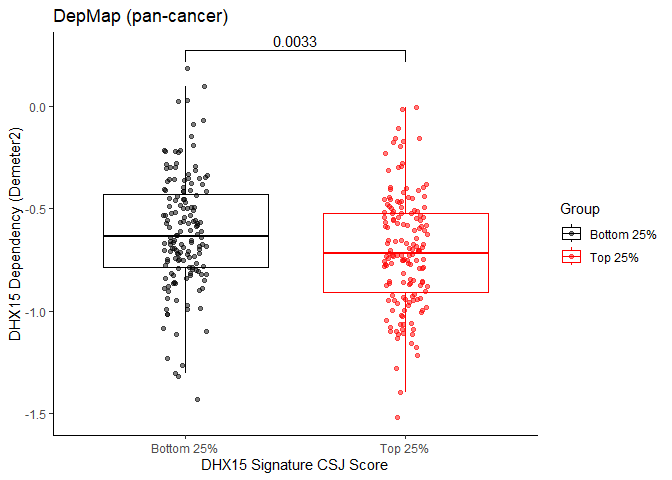
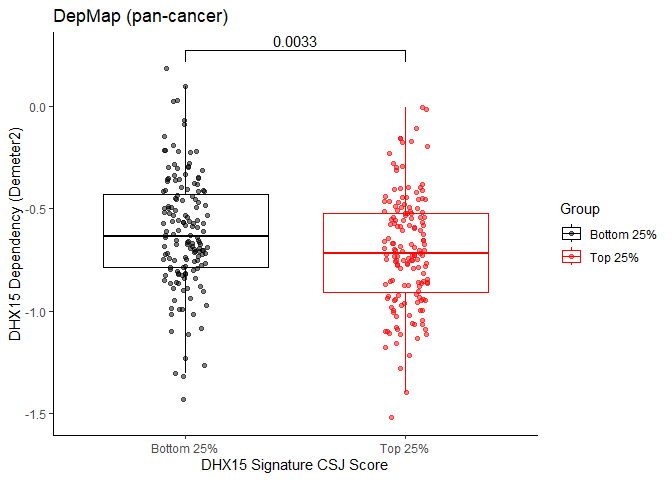
change based on Miko's comments

diff --git a/code/figure6_2.md b/code/figure6_2.md
@@ -14,6 +14,8 @@ library(viridis)
 
     ## Loading required package: viridisLite
 
+### Figure 6A
+
 ``` r
 # Define functions ####
 get_counts <- function(files, junxs) {
@@ -100,29 +102,19 @@ p <- pheatmap(tmp,
 
 ![](figure6_2_files/figure-markdown_github/Figure6_A-1.png)
 
-``` r
-ggsave(p, filename = "../LM2_SUM159_signature_heatmap.pdf",
-height = 6, width = 4)
-```
+### Figure 6C
 
 ``` r
-score <- read.delim(
-  paste0("../data/dtag_experiments/",
-         "top_122_differential_usage_lm2_sum159_multi_dosage.tsv")
-  )
-samples <- gsub("_classified_junctions.tsv", "", fixed = TRUE, rownames(score))
-meta <- fread("../data/dtag_experiments/lm2_sum159_multi_dosage_meta.tsv")
-aframe <- data.frame(score, meta)
-aframe$condition <- paste(aframe$Clone, aframe$Dosage.value, aframe$Time.value)
-aframe$condition <- factor(
-  aframe$condition, levels =
-    unique(aframe$condition[order(aframe$Dosage.value, aframe$Time.value)]))
-tmp <- aframe[aframe$Clone == "D12", ]
-afit <- summary(lm(tmp$score ~ as.numeric(as.factor(tmp$Dosage.value))))
+score <- fread(paste0("../data/dtag_experiments/",
+         "CSJ_signature_score_sum159_dosage_score.tsv"))
+meta <- fread(
+  "../data/dtag_experiments/CSJ_signature_score_sum159_dosage_meta.tsv")
+aframe <- data.frame(meta, score)
+afit <- summary(lm(aframe$score ~ as.numeric(as.factor(aframe$Dosage.value))))
 pval <- signif(coefficients(afit)[2, 4], 2)
 
 # Figure 6 C
-ggplot(aframe[aframe$Clone == "D12", ],
+ggplot(aframe,
        aes(factor(Dosage.value), score)) +
   labs(title = "SUM159 FKBP-DHX15",
        subtitle = paste("SUM159 D12 9hr - ordinal model P:", pval),
@@ -132,12 +124,8 @@ ggplot(aframe[aframe$Clone == "D12", ],
   theme_classic()
 ```
 
-![](figure6_2_files/figure-markdown_github/figure6_C-1.png)
-
-``` r
-ggsave(filename = "../SUM159_dosage_effect_UJ_score.pdf",
-       height = 5, width = 6)
-```
+![](figure6_2_files/figure-markdown_github/figure6_C-1.png) \### Figure
+6D
 
 ``` r
 # UJ score vs target specificity ####
@@ -174,11 +162,7 @@ ggplot(aframe,
 
 ![](figure6_2_files/figure-markdown_github/figure6_D-1.png)
 
-``` r
-ggsave(
-  filename = "../figure6_D_UJ_score_target_specificity.pdf",
-  height = 6, width = 6)
-```
+### Figure 6E
 
 ``` r
 meta <- fread("../data/r222g_mutant/CSJ_signature_score_r222g_mutant_meta.tsv")
@@ -203,12 +187,6 @@ ggplot(aframe,
     ## [1] FALSE
 
 ![](figure6_2_files/figure-markdown_github/figure6_E-1.png)
-
-``` r
-ggsave(filename = "../figure6_E_R222G_CJ_score.pdf",
-       height = 6,
-       width = 5)
-```
 
 ``` r
 score <- fread("../data/depmap/CSJ_signature_score_depmap.tsv")
@@ -252,6 +230,8 @@ lvs <- names(
 aframe$lineage <- factor(aframe$lineage, levels = lvs)
 ```
 
+### Figure 6F
+
 ``` r
 # Fibroblasts vs rest - Boxplot ####
 ggplot(aframe[aframe$lineage %in% good_tissues, ],
@@ -261,7 +241,7 @@ ggplot(aframe[aframe$lineage %in% good_tissues, ],
        x = "DHX15 Signature CSJ Score",
        y = "Lineage") +
   geom_boxplot(outlier.color = NA) + geom_jitter(height = .1, alpha = 0.5) +
-  scale_color_manual(values = c("black", "red"), name = "Normal") +
+  scale_color_manual(values = c("black", "blue"), name = "Normal") +
   ggpubr::stat_compare_means(
     comparisons = lapply(
       setdiff(
@@ -274,13 +254,7 @@ ggplot(aframe[aframe$lineage %in% good_tissues, ],
 
 ![](figure6_2_files/figure-markdown_github/figure6_F-1.png)
 
-``` r
-ggsave(
-  filename =
-  "../figure6_F_Depmap_CJ_score_across_tissues_boxplot.pdf",
-       height = 11,
-       width = 11)
-```
+### Figure 6G
 
 ``` r
 # Figure 6 G
@@ -307,19 +281,8 @@ ggplot(aframe[aframe$Group %in% c("Bottom 25%", "Top 25%"), ],
 
     ## Warning: Removed 199 rows containing missing values (`geom_point()`).
 
-![](figure6_2_files/figure-markdown_github/Figure6_G-1.png)
-
-``` r
-ggsave(filename = "../figure6_G_Depmap_CNV_vs_CJ_score.pdf",
-       height = 5,
-       width = 4)
-```
-
-    ## Warning: Removed 199 rows containing non-finite values (`stat_boxplot()`).
-
-    ## Warning: Removed 199 rows containing non-finite values (`stat_signif()`).
-
-    ## Warning: Removed 199 rows containing missing values (`geom_point()`).
+![](figure6_2_files/figure-markdown_github/Figure6_G-1.png) \### Figure
+6H
 
 ``` r
 # Quartile low vs high CJ score vs dependency - BRCA only #####
@@ -345,10 +308,3 @@ ggplot(subm[subm$bins %in% c("Top 33%", "Bottom 33%"), ],
     ## [1] FALSE
 
 ![](figure6_2_files/figure-markdown_github/figure6_H-1.png)
-
-``` r
-ggsave(filename =
-         "../figure6_H_Depmap_UJ_vs_demeter2_BRCA_only.pdf",
-       height = 5,
-       width = 4)
-```
